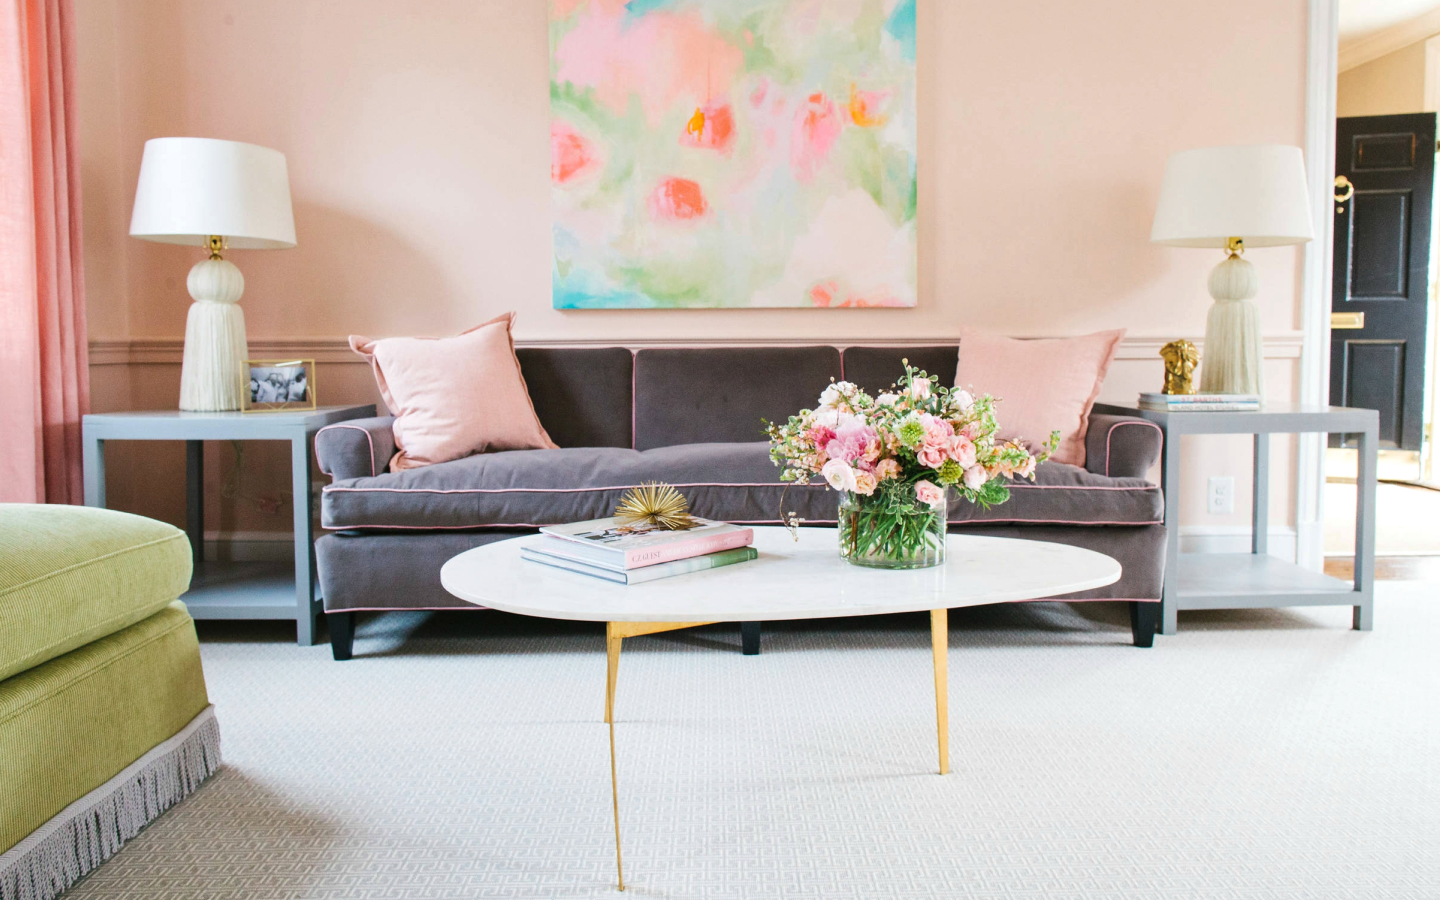
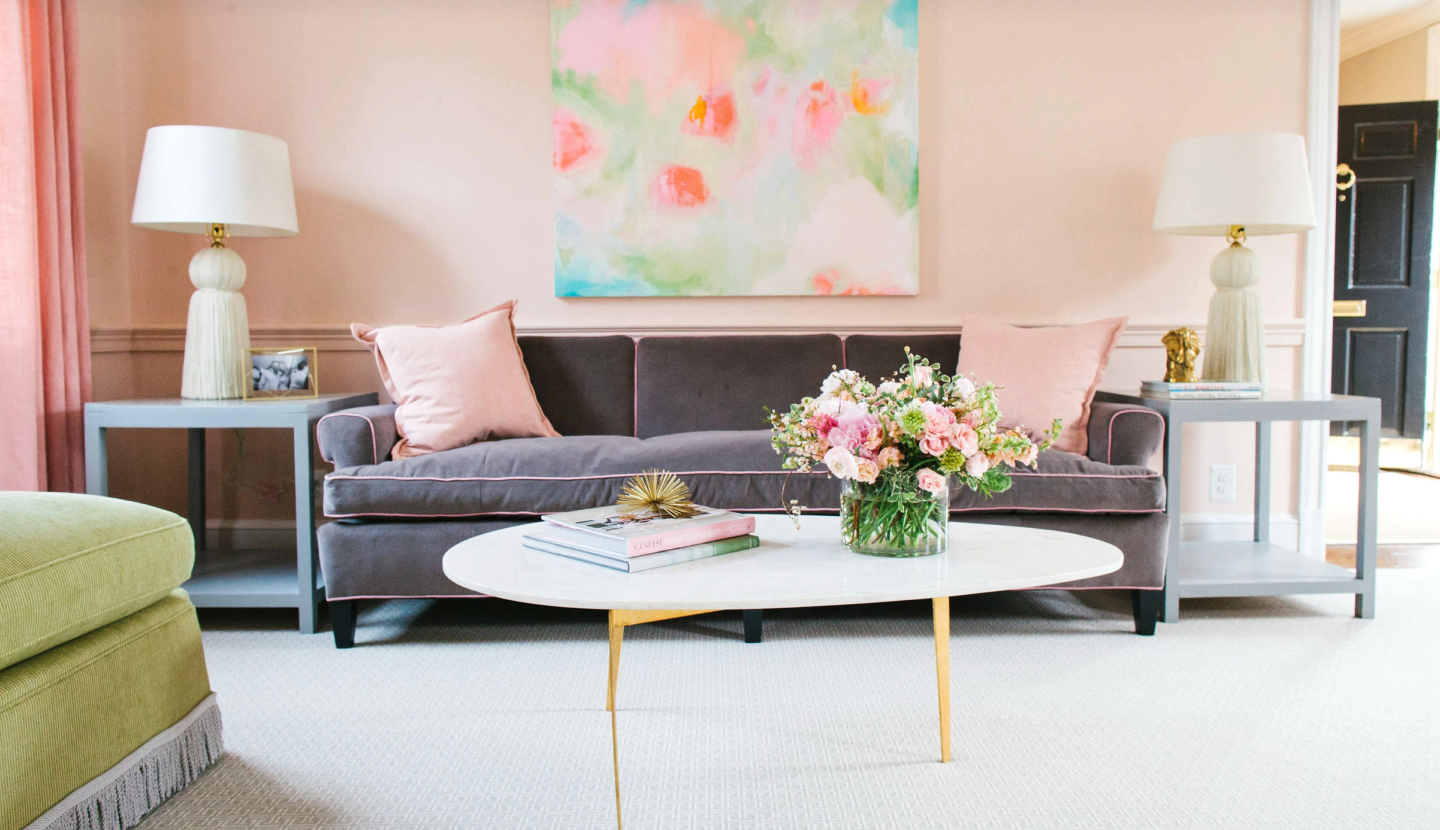
search-module/ bg-image

diff --git a/src/scss/scss_modules/header.scss b/src/scss/scss_modules/header.scss
@@ -1,12 +1,23 @@
 .header {
-  padding: 15px 0;
+  padding: 15px 0 14px;
   &__buttons {
     display: flex;
   }
   &__btn {
-    margin: 0 20px 0 27px;
+    margin: 0 20px 0 25px;
   }
 }
+
+.logo {
+  &__link-img,
+  &__link-text {
+    vertical-align: middle;
+  }
+  &__link-text {
+    margin-left: 8px;
+  }
+}
+
 .menu__list {
   display: flex;
   font-size: 14px;
@@ -25,7 +36,7 @@
       background-position: center;
       width: 24px;
       height: 20px;
-      margin-left: 4px;
+      margin-left: 3px;
       top: -1px;
       cursor: pointer;
     }

diff --git a/src/scss/main.scss b/src/scss/main.scss
@@ -81,24 +81,13 @@ p {
 
 @import "./scss_modules/header.scss";
 
-.logo {
-  &__link-img,
-  &__link-text {
-    vertical-align: middle;
-  }
-  &__link-text {
-    margin-left: 8px;
-  }
-}
-
 .search {
-  min-height: 830px;
   background-image: url(../images/bg-image-room1.jpg);
   background-repeat: no-repeat;
-  background-position: center 18%;
+  background-position: center 0%;
   background-size: cover;
   max-width: 1440px;
-  min-height: 758px;
+  min-height: 830px;
   margin: 0 auto;
 }
 
